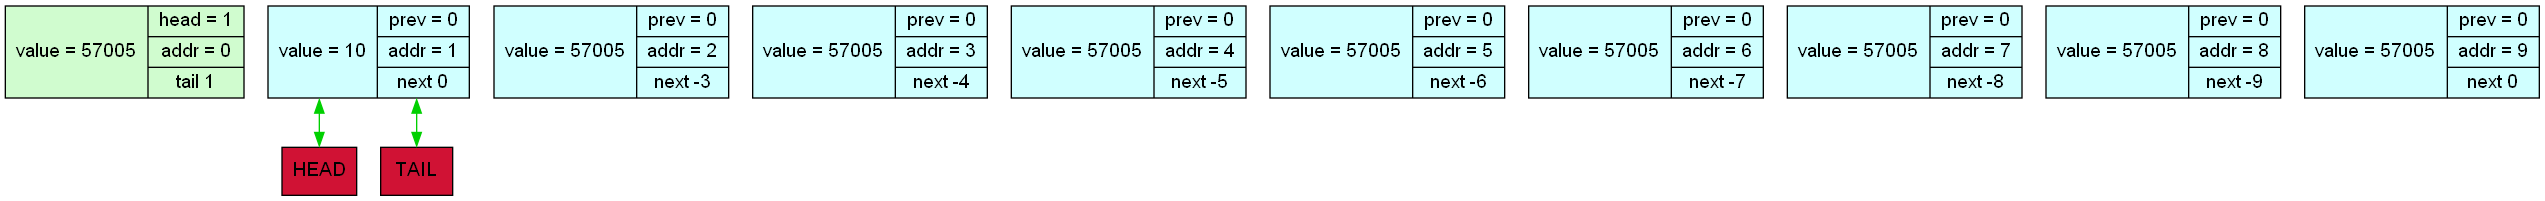
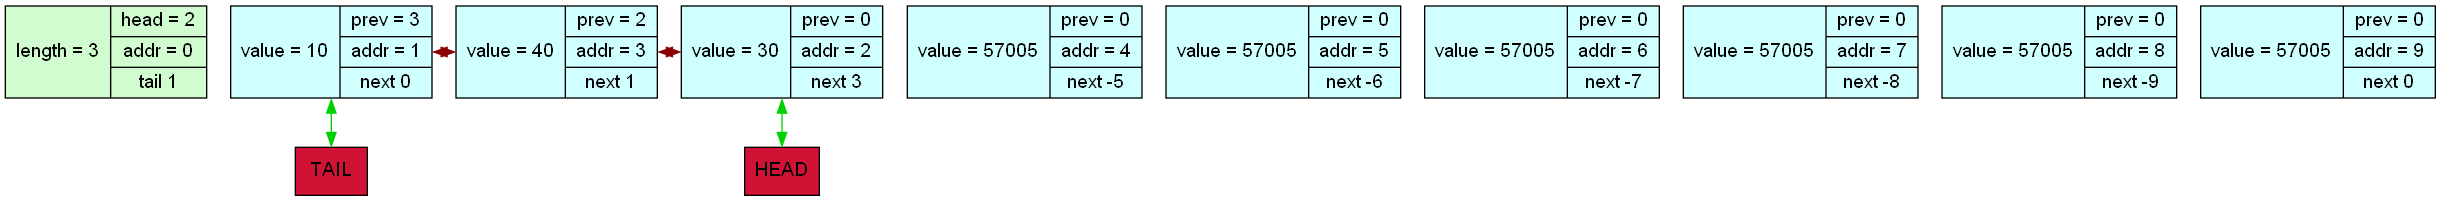
Pappa ustal

diff --git a/log-file.html b/log-file.html
@@ -1,20 +1,31 @@
 <pre>
 <h2>Welcome to log file</h2>
 <font color = green>Start listing
-</color><font color = black>Call Graphviz dump
+</color><font color = black>Value 30 insert before physical index (logic index is 1) 2
+Value 30 insert at the head of list
+Value 40 insert before physical index (logic index is 1) 3
+Value 40 insert at the head of list
+Call Graphviz dump
 <img src = img/image0.png width 40/>
-Value 10 insert before physical index (logic index is 1) 2
-Value 10 insert at the head of list
-Value 20 insert after physical index (logic index is 2) 1
-Value 20 insert at the tail of list
+Value 2 insert before physical index (logic index is 2) 2
+Value 2 insert after physical index (logic index is 2) 2
 Call Graphviz dump
 <img src = img/image1.png width 40/>
-Value 10 with physical index (logic index is 2) -1 was deleted
-The first value 1 in list was deleted
+Value 10 with physical index is 1 was deleted
 Call Graphviz dump
 <img src = img/image2.png width 40/>
-Value 1 insert before physical index (logic index is 1) 3
+Called linearization of list
 Call Graphviz dump
 <img src = img/image3.png width 40/>
+Value 2 with physical index is 1 was deleted
+The first value 1 in list was deleted
+Call Graphviz dump
+<img src = img/image4.png width 40/>
+Value 40 with physical index is 4 was deleted
+The first value 1 in list was deleted
+Call Graphviz dump
+<img src = img/image5.png width 40/>
 </color><font color = red>End of listing
-</color>
+</color><center><img align="middle" src="img/image.jpg" width="202" height="270">
+<font color = blue>Спасибо Полторашке за этот прекрасный листинг!
+<font color = blue></center>

diff --git a/list.cpp b/list.cpp
@@ -31,6 +31,10 @@ void list_ctor (struct List* myList) {
 }
 
 void list_dtor (struct List* myList) {
+    if (myList->errors != 0) {
+        list_dump (myList);
+    }
+
     myList->head = 0;
     myList->tail = 0;
     myList->free = 0;
@@ -44,9 +48,10 @@ void list_dtor (struct List* myList) {
     free (myList->list);
     myList->list = nullptr;
     fprintf (myList->log, "</color><font color = red>End of listing\n</color>");
+    fprintf (myList->log, "<center><img align=\"middle\" src=\"img/image.jpg\" width=\"202\" height=\"270\">\n");
+    fprintf (myList->log, "<font color = blue>Спасибо Полторашке за этот прекрасный листинг!\n<font color = blue></center>");
     fclose (myList->log);
 }
-//отоброжать пустые и служебный
 
 void list_insert_before (struct List* myList, type value, int index) {
     if ((LIST_LENGTH < index) || (index < 0) || (myList->length > LIST_LENGTH) || (myList->free == 0)) {
@@ -73,6 +78,10 @@ void list_insert_before (struct List* myList, type value, int index) {
         return;
     }
 
+    if (myList->length == 1) {
+        myList->tail = index;
+    }
+
     int insertBlock = -myList->free;
 
     myList->free = myList->list[-myList->free].next;
@@ -93,8 +102,10 @@ void list_insert_before (struct List* myList, type value, int index) {
     myList->length++;
 
     fprintf (myList->log, "Value %d insert before physical index (logic index is %d) %d\n", value, index, list_phys_in_log (myList, index));
+    myList->flag_linear = 0;
 
     list_check (myList);
+    
 }
 
 void list_first (struct List* myList, type value) {
@@ -116,6 +127,10 @@ void list_insert_after (struct List* myList, type value, int index) {
         return;
     }
 
+    if (myList->tail != myList->length && myList->flag_linear == 1) {
+        myList->flag_linear = 0;
+    }
+
     list_check (myList);
 
     if (myList->length == 0) {
@@ -131,6 +146,10 @@ void list_insert_after (struct List* myList, type value, int index) {
         myList->length++;
 
         return;
+    }
+
+    if (myList->length == 1) {
+        myList->head = index;
     }
 
     int insertBlock = -myList->free;
@@ -172,6 +191,10 @@ int list_search (struct List* myList, type value) {
 }
 
 int list_log_in_phys (struct List* myList, type index) {
+    if (myList->flag_linear == 1) {
+        return index;
+    }
+
     int current = myList->head;
     for (int i = 1; i < index; i++, current = myList->list[current].next) {}
 
@@ -186,6 +209,10 @@ int list_log_in_phys (struct List* myList, type index) {
 }
 
 int list_phys_in_log (struct List* myList, int index) {
+    if (myList->flag_linear == 1) {
+        return index;
+    }
+
     for (int current = myList->head, j = 0; current != 0; current = myList->list[current].next) {
         j++;
         if (myList->list[index].data == myList->list[current].data && myList->list[index].prev == myList->list[current].prev) {
@@ -201,9 +228,10 @@ int list_delete_first (struct List* myList) {
     int result = list_delete (myList, list_log_in_phys(myList, 1));
 
     fprintf (myList->log, "The first value %d in list was deleted\n", result);
+    myList->flag_linear = 0;
 
     return result;
-}//TEST_ME
+}
 
 int list_delete_last (struct List* myList) {
     int result = list_delete (myList, list_log_in_phys(myList, myList->length));
@@ -211,13 +239,17 @@ int list_delete_last (struct List* myList) {
     fprintf (myList->log, "The first value %d in list was deleted\n", result);
 
     return result;
-}//TEST_ME
+}
 
 int  list_delete (struct List* myList, type index) {
     if (myList->list[index].data == POISON) {
         printf("You can't delete unexisting thing(\n");
         myList->errors = DELETE_ERROR;
         return 0;
+    }
+
+    if (myList->length != myList->tail || index != myList->tail) {
+        myList->flag_linear = 0;
     }
 
     list_check (myList);
@@ -247,7 +279,7 @@ int  list_delete (struct List* myList, type index) {
 
     printf ("DELETED VALUE: %d\n", delValue);
 
-    fprintf (myList->log, "Value %d with physical index (logic index is %d) %d was deleted\n", delValue, index, list_phys_in_log (myList, index));
+    fprintf (myList->log, "Value %d with physical index is %d was deleted\n", delValue, index);
 
     list_check (myList);
 
@@ -346,6 +378,7 @@ int list_check (struct List* myList) {
     if (myList->length <= 1) {
         return 0;
     }
+
     int lr_counter = 0;
 
     for (int current = myList->head; current != 0; current = myList->list[current].next) {
@@ -378,12 +411,7 @@ int list_check (struct List* myList) {
         myList->errors = CONNECT_ERROR;
     }
 
-    if (myList->errors != 0) {
-        list_dump (myList);
-        return 1;
-    } else {
-        return 0;
-    }
+    return myList->errors;
 }
 
 char* inttoa(int n, char* s) {
@@ -440,7 +468,7 @@ void graph_dump (struct List* myList) {
     fprintf (myList->output, "splines = \"ortho\"\n");
     
 
-    fprintf (myList->output, "node0 [label = \"<f0>value = %d |{head = %d|<f1> addr = 0|tail %d}\", style = filled, fillcolor = \"#d0fccf\"];\n", myList->list[0].data, 
+    fprintf (myList->output, "node0 [label = \"<f0>length = %d |{head = %d|<f1> addr = 0|tail %d}\", style = filled, fillcolor = \"#d0fccf\"];\n", myList->length, 
                  myList->list[0].prev, 
                  myList->list[0].next);
 
@@ -450,14 +478,6 @@ void graph_dump (struct List* myList) {
                  i,
                  myList->list[i].next);
     }
-
-
-    // for (int i = 0; i < LIST_LENGTH; i++) {
-    //     if (myList->list[i].data == POISON || myList->list[i].next ==  0) {
-    //         continue;
-    //     }
-    //     fprintf (myList->output, "node%d -> node%d:<next_in> [style = \"invis\",constraint = true, dir=both, color = \"#00D000\"];\n", i, i + 1);
-    // }
 
     for (int i = 0; i < LIST_LENGTH; i++) {
         if (myList->list[i].data == POISON || myList->list[i].next ==  0) {
@@ -530,7 +550,7 @@ void list_linearization (struct List* myList) {
     myList->flag_linear = 1;
     
     fprintf (myList->log, "Called linearization of list\n");
-}//доделать идею с флагом линеаризации
+}
 
 int scanf_check (int x) {
     if (x == 0) {

diff --git a/main.cpp b/main.cpp
@@ -154,11 +154,11 @@ int main () {
                 break;
         }
         
-        if (list_check (&myList) != 0) {
+        if (list_check (&myList) > 0) {
             list_dtor (&myList);
             break;
         }
-        
+
         while (!scanf_check(scanf("%d", &command)));
 
     }

diff --git a/list.hpp b/list.hpp
@@ -4,6 +4,7 @@
 #include <stdlib.h>
 #include <stdio.h>
 #include <string.h>
+#include <time.h>
 
 #define DBG printf("FILE:%s FUNC:%s LINE:%d\n", __FILE__, __PRETTY_FUNCTION__, __LINE__);
 
